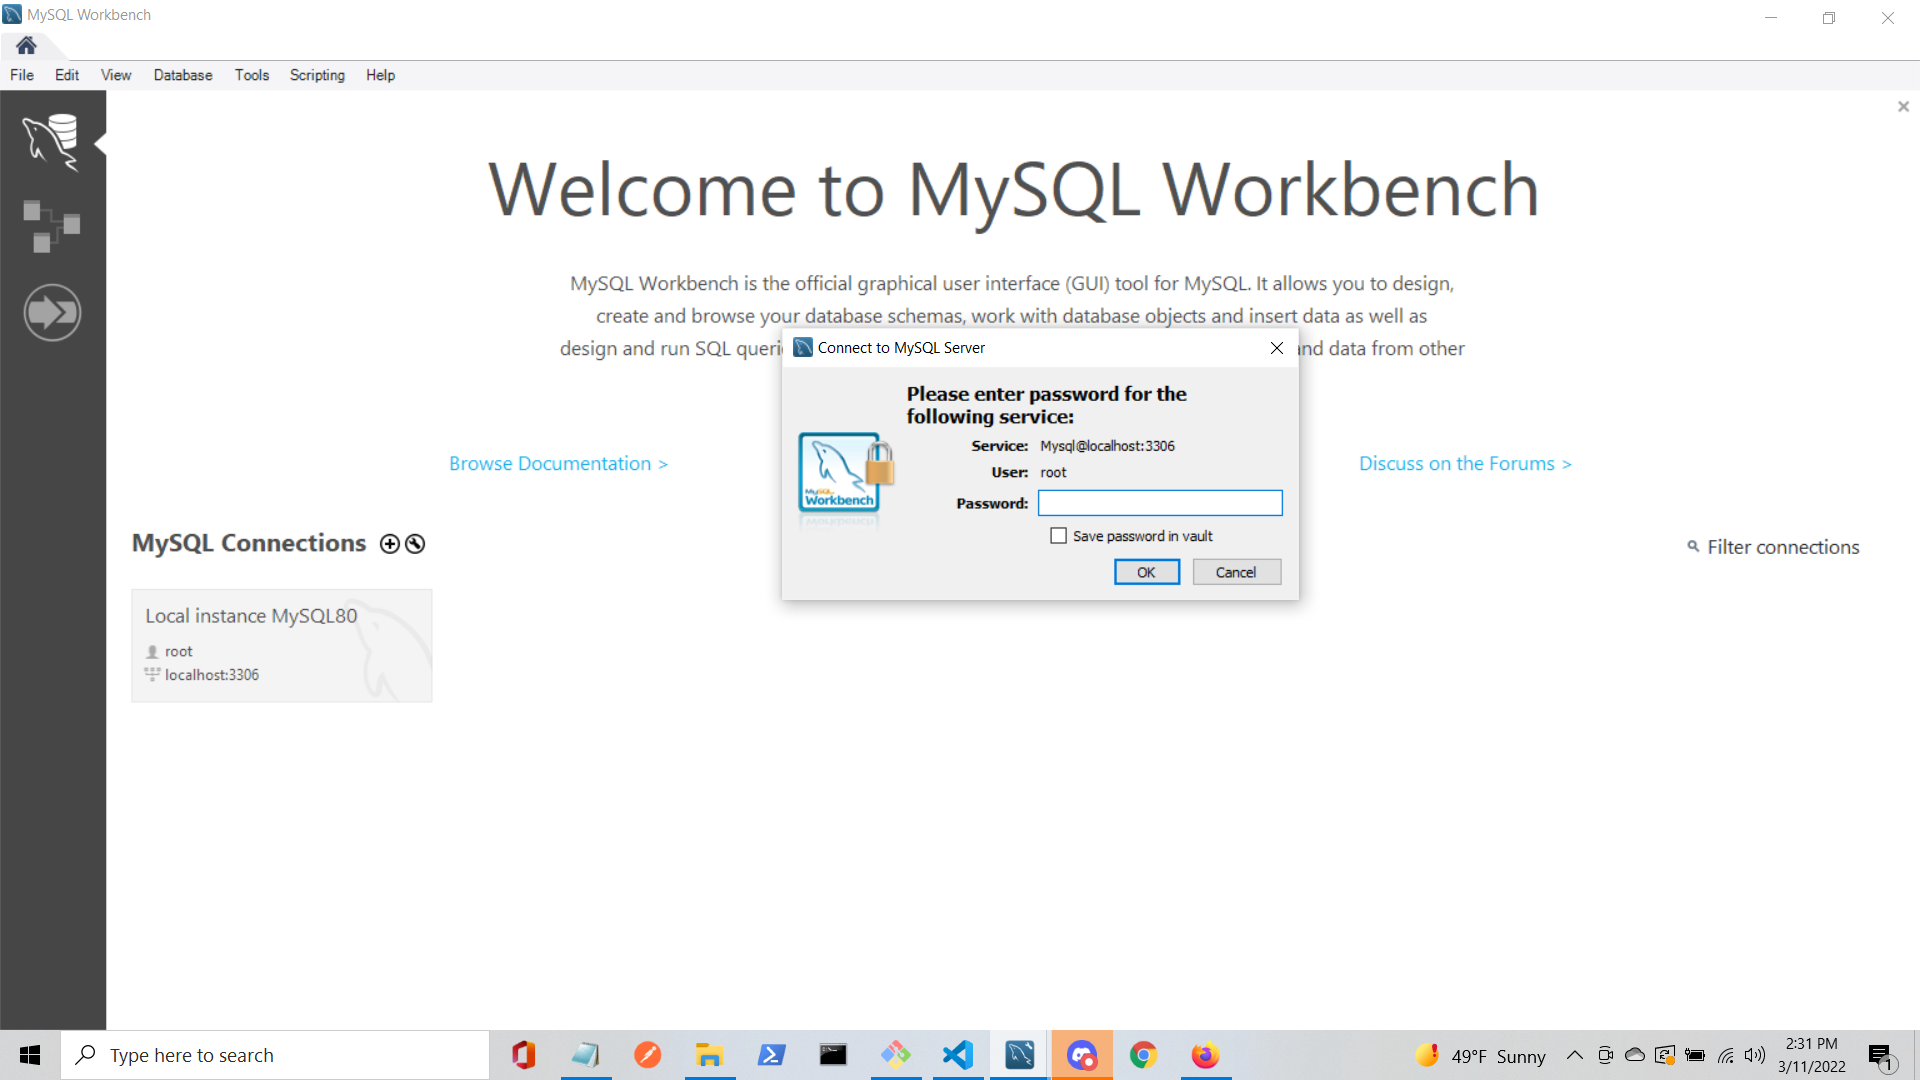
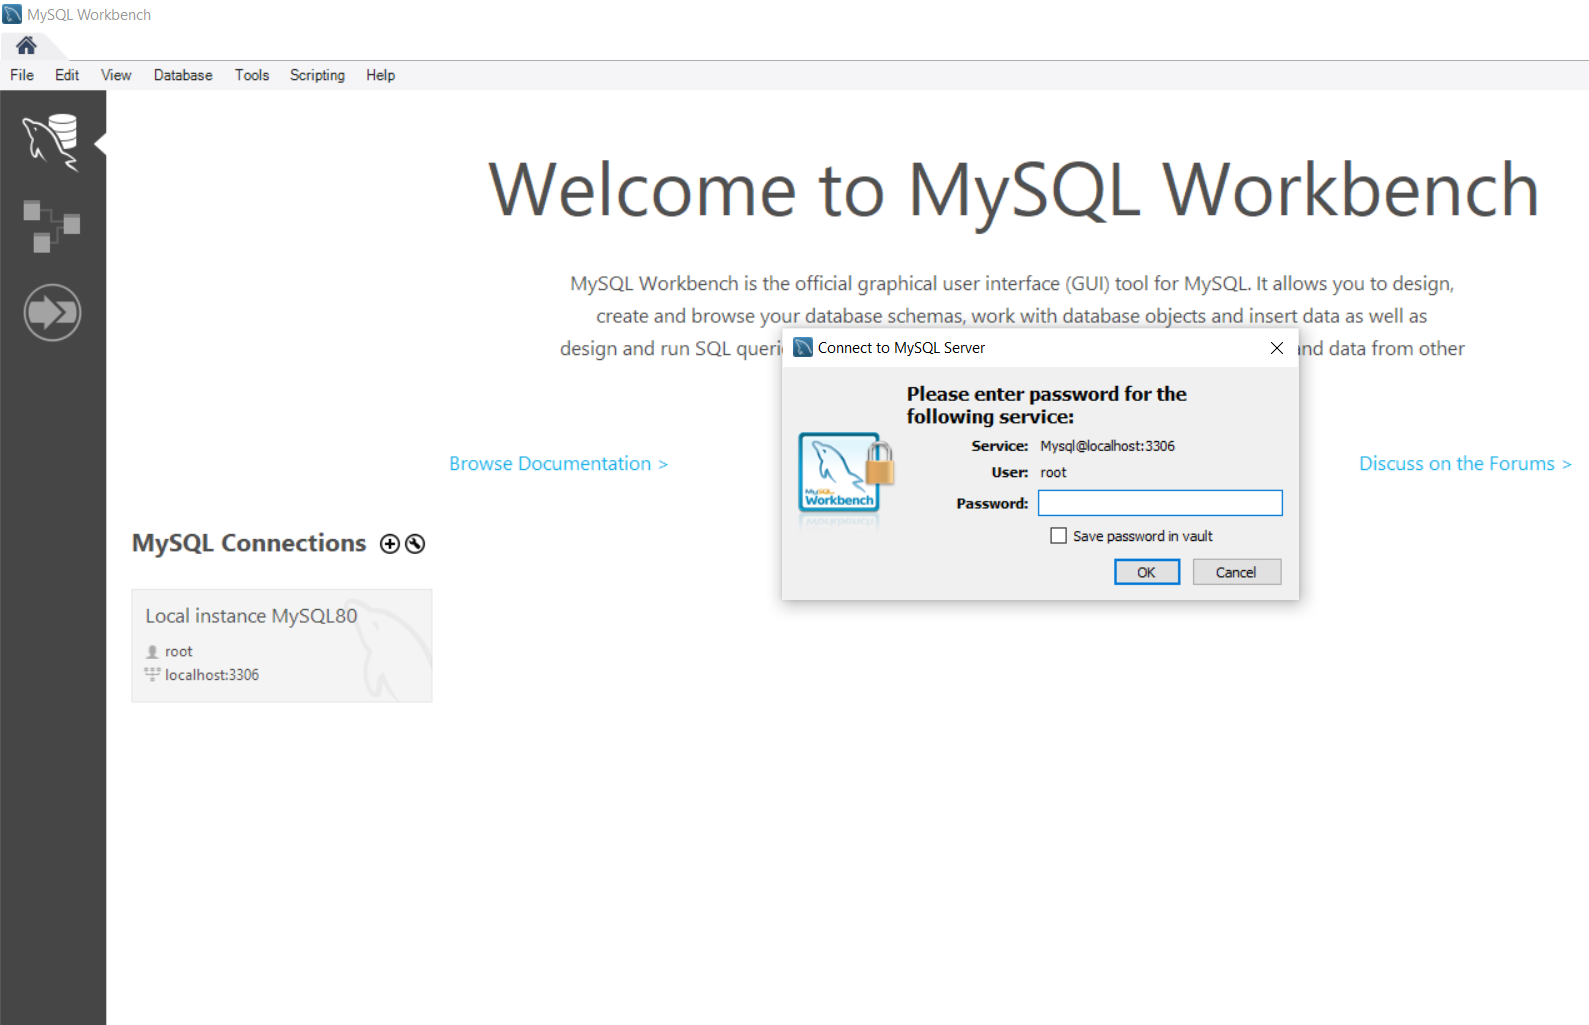
added changes to images

diff --git a/README.md b/README.md
@@ -53,13 +53,12 @@ Developer Note -- <em>You do not need the square brackets around your password, 
 
 Developer Note -- <em>I have included images of the entire process needed to get this program set up in the `img` folder inside of `wwwroot` folder. If at any point you are not sure about where you should be clicking or adding things, please refer to those images.</em>
 
-[Click here for an Example Image of what's in the img folder.](https://github.com/Ultra-Zactimus/HairSalon.Solution/img/img02.png)
-
 * Visit the website for MySQL Workbench and download it on your computer.
 * When you reach the Configuration part of the installation select "<em>Use Legacy Password Encryption</em>", make sure to also set your password here to something you will remember.
 * In the terminal Run "$ `echo 'export PATH="/usr/local/mysql/bin:$PATH"' >> ~/.bash_profile`"
 * Run "$ `source ~/.bash_profile`" to ensure that the project is installed properly. If you see `mysql>` appear in the terminal then everything should be ready.
 * Next Run "$ `mysql -u root -p`", you should be prompted to enter a password.
+![Picture of My SQL Workbench Start up Page](/HairSalon/wwwroot/img/img01.png)
 * Once you are in, open up MySQL Workbench click the MySQL Connections on the left hand side, you will be prompted to enter your password.
 *You should now be within the main workspace of MySQL Workbench.
 * In the upper left should be a list of icons, hover your mouse over them till you find the one that says `"Create a new schema in the connected server"` Click that button.
